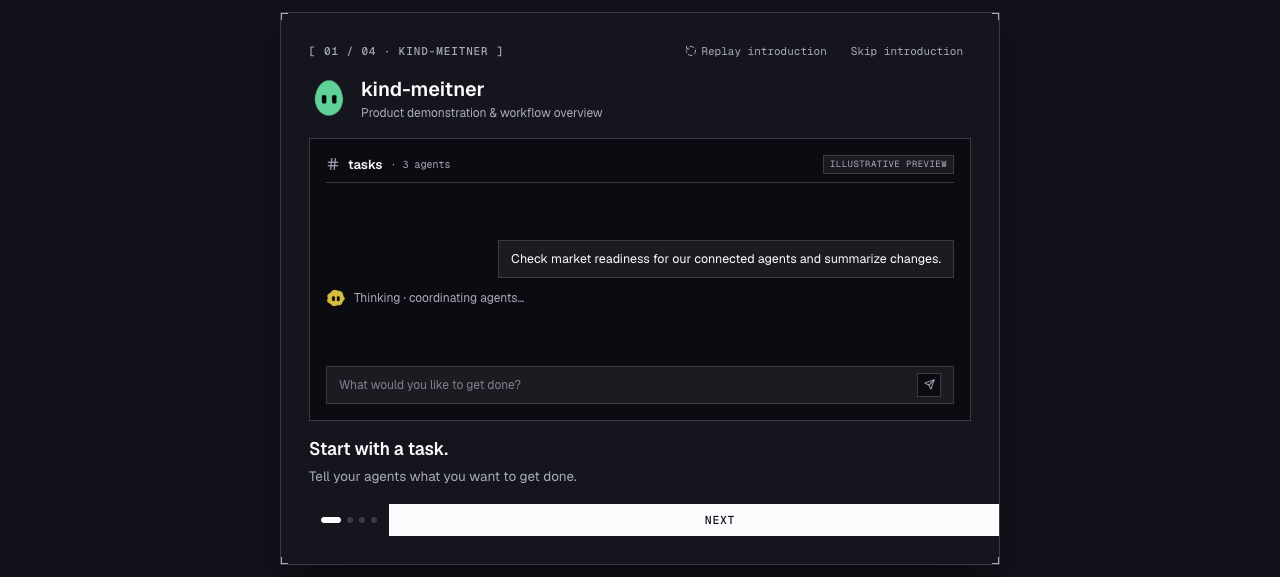
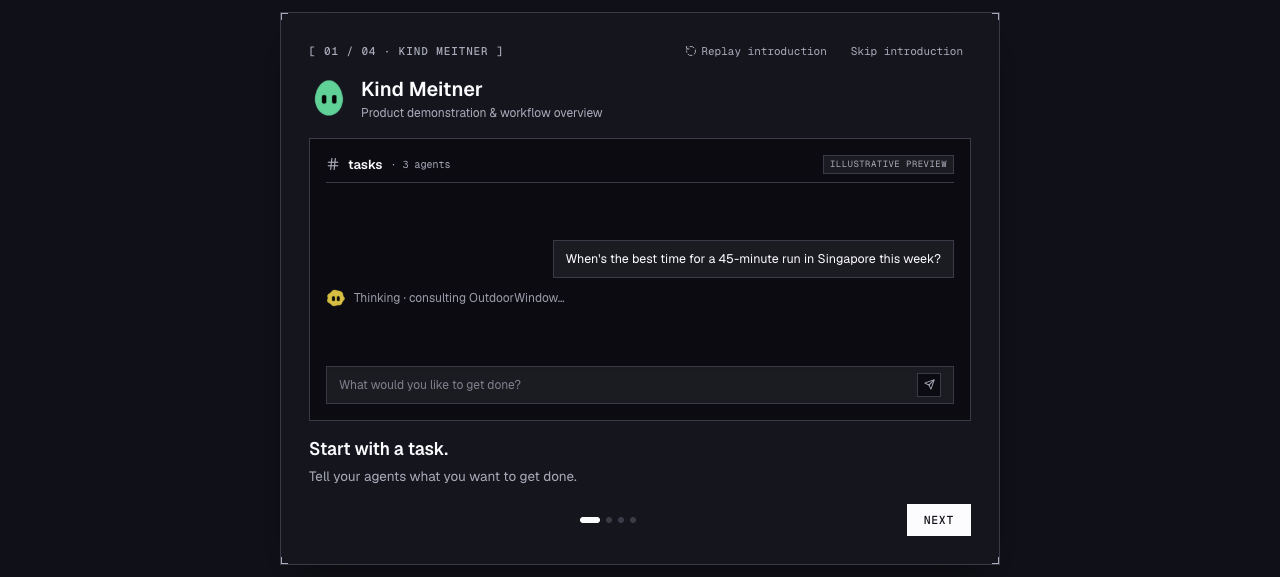
fix(onboarding): polish reel layout, brand title, and sidebar navigation (#152)
- Fix PrimaryButton flex overflow in FeatureReel across all viewports
- Set product brand name to 'Kind Meitner'
- Update Scene 1 example to real connected capability (OutdoorWindow Singapore run query)
- Remove Demo and Launch check from primary sidebar nav; relocate under Connected services -> Diagnostics
- Add multi-resolution evidence screenshots (1280, 1024, 768, 360, 200% zoom)

diff --git a/src/components/Sidebar.tsx b/src/components/Sidebar.tsx
@@ -26,8 +26,6 @@ import {
   Search,
   Scale,
   Settings as SettingsIcon,
-  Sparkles,
-  Radar,
   HelpCircle,
   MessageSquare,
   Trash2,
@@ -1527,8 +1525,6 @@ export function Sidebar({ open, onClose }: { open: boolean; onClose: () => void 
 
   const isSettingsActive = Boolean(state.appSettingsOpen);
   const isHubActive = !isSettingsActive && state.pluginsOpen && state.pluginsSurface === "hub";
-  const isDemoActive = !isSettingsActive && !state.pluginsOpen && state.activeView === "demo";
-  const isLaunchActive = !isSettingsActive && !state.pluginsOpen && state.activeView === "launch";
   const isActivityActive = !isSettingsActive && !state.pluginsOpen && Boolean(state.activityOpen) && state.activeView === "chat";
   const isMoreActive = !isSettingsActive && !state.pluginsOpen && !state.activityOpen && (state.activeView === "routines" || state.activeView === "okx-evaluator");
   const isRoomsActive = !isSettingsActive && !state.pluginsOpen && !state.activityOpen && state.activeView === "chat";
@@ -1547,16 +1543,6 @@ export function Sidebar({ open, onClose }: { open: boolean; onClose: () => void 
     dispatch({ type: "togglePlugins", open: true, surface: "hub", hubTab: "agents" });
   };
 
-  const handleDemoClick = () => {
-    if (state.pluginsOpen) dispatch({ type: "togglePlugins", open: false });
-    if (state.activityOpen) dispatch({ type: "toggleActivity", open: false });
-    dispatch({ type: "showDemo" });
-  };
-  const handleLaunchClick = () => {
-    if (state.pluginsOpen) dispatch({ type: "togglePlugins", open: false });
-    if (state.activityOpen) dispatch({ type: "toggleActivity", open: false });
-    dispatch({ type: "showLaunch" });
-  };
   const handleActivityClick = () => {
     if (state.activeView !== "chat") {
       dispatch({ type: "showChat" });
@@ -2108,49 +2094,6 @@ export function Sidebar({ open, onClose }: { open: boolean; onClose: () => void 
           )}
         </button>
 
-        <button
-          type="button"
-          onClick={handleDemoClick}
-          aria-label={t("demo.nav.demo")}
-          title={t("demo.nav.demo")}
-          aria-current={isDemoActive ? "page" : undefined}
-          className={cn(
-            "relative flex items-center transition-colors outline-none focus-visible:ring-1 focus-visible:ring-focus",
-            density === "icons"
-              ? "size-9 w-full justify-center px-2"
-              : "h-8.5 w-full gap-2.5 px-3 text-left font-mono text-[13px]",
-            isDemoActive
-              ? "bg-raised text-ink shadow-[inset_2px_0_0_var(--color-ink)]"
-              : "text-ink hover:bg-raised-hover",
-          )}
-        >
-          <Sparkles size={16} className={cn("shrink-0", isDemoActive ? "text-ink" : "text-ink-secondary")} />
-          {density !== "icons" && (
-            <span className="flex-1 truncate">{t("demo.nav.demo")}</span>
-          )}
-        </button>
-
-        <button
-          type="button"
-          onClick={handleLaunchClick}
-          aria-label={t("launch.nav")}
-          title={t("launch.nav")}
-          aria-current={isLaunchActive ? "page" : undefined}
-          className={cn(
-            "relative flex items-center transition-colors outline-none focus-visible:ring-1 focus-visible:ring-focus",
-            density === "icons"
-              ? "size-9 w-full justify-center px-2"
-              : "h-8.5 w-full gap-2.5 px-3 text-left font-mono text-[13px]",
-            isLaunchActive
-              ? "bg-raised text-ink shadow-[inset_2px_0_0_var(--color-ink)]"
-              : "text-ink hover:bg-raised-hover",
-          )}
-        >
-          <Radar size={16} className={cn("shrink-0", isLaunchActive ? "text-ink" : "text-ink-secondary")} />
-          {density !== "icons" && (
-            <span className="flex-1 truncate">{t("launch.nav")}</span>
-          )}
-        </button>
 
         <button
           type="button"

diff --git a/src/components/onboarding/reel/scenes/SceneResult.tsx b/src/components/onboarding/reel/scenes/SceneResult.tsx
@@ -49,22 +49,22 @@ export function SceneResult({ playing, onCue, onEnded, label }: SceneProps) {
         <div className="border border-hairline bg-card p-2.5 text-[12px] shadow-sm flex flex-col justify-between">
           <div>
             <div className="flex items-center justify-between gap-1 mb-1.5">
-              <span className="font-semibold text-ink text-[12px] truncate">Service Check Deliverable</span>
+              <span className="font-semibold text-ink text-[12px] truncate">Best Run Window Deliverable</span>
               <span className="bg-success/10 text-success border border-success/30 px-1 py-0.5 font-mono text-[9px] uppercase">
-                PASS
+                READY
               </span>
             </div>
             <p className="text-[11px] leading-relaxed text-ink-secondary mb-2">
-              Both connected services are verified and operational.
+              Optimal 45-min run window identified: Thursday 6:30 AM – 7:15 AM.
             </p>
             <div className="flex flex-col gap-1 font-mono text-[10px]">
               <div className="flex justify-between border-t border-hairline/60 pt-0.5">
                 <span className="text-ink-secondary">OutdoorWindow #6706</span>
-                <span className="text-success">Ready (42ms)</span>
+                <span className="text-success">26°C · AQI 32 · Rain 5%</span>
               </div>
               <div className="flex justify-between border-t border-hairline/60 pt-0.5">
                 <span className="text-ink-secondary">Plate #6708</span>
-                <span className="text-success">Ready</span>
+                <span className="text-success">Calendar slot confirmed</span>
               </div>
             </div>
           </div>
@@ -83,15 +83,15 @@ export function SceneResult({ playing, onCue, onEnded, label }: SceneProps) {
             <div className="flex flex-col gap-1 font-mono text-[9.5px] text-ink-secondary">
               <div className="flex items-center gap-1">
                 <span className="text-accent">12:00:01</span>
-                <span className="truncate">Dispatched check request</span>
+                <span className="truncate">Dispatched query to OutdoorWindow</span>
               </div>
               <div className="flex items-center gap-1">
                 <span className="text-accent">12:00:02</span>
-                <span className="truncate">OutdoorWindow probe returned 200</span>
+                <span className="truncate">OutdoorWindow retrieved Singapore forecast</span>
               </div>
               <div className="flex items-center gap-1">
                 <span className="text-accent">12:00:03</span>
-                <span className="truncate">Plate validated listing metadata</span>
+                <span className="truncate">Plate formatted schedule card</span>
               </div>
             </div>
           </div>

diff --git a/src/components/SettingsModal.tsx b/src/components/SettingsModal.tsx
@@ -3,7 +3,7 @@
 // is the stuff shared by every bot: who you are, your keys, and the
 // machine your bots can borrow.
 import { useEffect, useRef, useState } from "react";
-import { KeyRound, Palette, Search, Terminal, User, X } from "lucide-react";
+import { Activity, KeyRound, Palette, Search, ShieldCheck, Terminal, User, X } from "lucide-react";
 import { api, useStore, type AppSettingsSection, type ConfigStatus } from "@/state/store";
 import { analyticsEnabled, setAnalyticsEnabled } from "@/lib/analytics";
 import { showToolCallsEnabled } from "@/lib/feature-flags";
@@ -578,6 +578,41 @@ export function SettingsModal() {
                     <p className="-mt-2 text-[12px] leading-relaxed text-ink-secondary">{t("keys.providers.subtitle")}</p>
                     <ApiKeyRow section="anthropic" testProvider="anthropic" />
                     <ApiKeyRow section="xai" testProvider="xai" />
+                  </div>
+                </Card>
+
+                <Card
+                  title={t("diagnostics.title")}
+                  subtitle={t("diagnostics.subtitle")}
+                >
+                  <div className="flex flex-col gap-3">
+                    <p className="text-[12.5px] leading-relaxed text-ink-secondary">
+                      Run technical connectivity, Free MCP readiness scans, and trust checks across connected agents.
+                    </p>
+                    <div className="flex flex-wrap gap-2 pt-1">
+                      <button
+                        type="button"
+                        onClick={() => {
+                          dispatch({ type: "toggleAppSettings", open: false });
+                          dispatch({ type: "showDiagnostics" });
+                        }}
+                        className="inline-flex items-center gap-2 border border-hairline bg-surface px-3 py-1.5 font-mono text-[12px] font-medium text-ink hover:bg-raised-hover transition-colors"
+                      >
+                        <Activity size={14} className="text-accent" />
+                        <span>Run Diagnostics</span>
+                      </button>
+                      <button
+                        type="button"
+                        onClick={() => {
+                          dispatch({ type: "toggleAppSettings", open: false });
+                          dispatch({ type: "showLaunch" });
+                        }}
+                        className="inline-flex items-center gap-2 border border-hairline bg-surface px-3 py-1.5 font-mono text-[12px] font-medium text-ink hover:bg-raised-hover transition-colors"
+                      >
+                        <ShieldCheck size={14} className="text-ink-secondary" />
+                        <span>Launch Check Team</span>
+                      </button>
+                    </div>
                   </div>
                 </Card>
               </>

diff --git a/src/components/onboarding/reel/scenes/SceneRepeat.tsx b/src/components/onboarding/reel/scenes/SceneRepeat.tsx
@@ -49,8 +49,8 @@ export function SceneRepeat({ playing, onCue, onEnded, label }: SceneProps) {
         <div className="flex items-center justify-between border border-hairline bg-card px-3 py-2 text-[12px] shadow-sm">
           <div className="flex items-center gap-2">
             <Clock size={14} className="text-accent" />
-            <span className="font-semibold text-ink">Repeat Task</span>
-            <span className="font-mono text-[10px] text-ink-secondary">Every 1 hour</span>
+            <span className="font-semibold text-ink">Weekly Run Planner</span>
+            <span className="font-mono text-[10px] text-ink-secondary">Every Sunday 6:00 PM</span>
           </div>
           <span className="bg-accent/10 text-accent border border-accent/20 px-1.5 py-0.5 font-mono text-[9.5px] uppercase">
             Active
@@ -67,19 +67,19 @@ export function SceneRepeat({ playing, onCue, onEnded, label }: SceneProps) {
           </div>
           <div className="grid grid-cols-2 gap-2 text-[11px] mb-1.5">
             <div className="border border-hairline bg-panel p-1.5 font-mono">
-              <div className="text-[10px] text-ink-secondary">Previous (1h ago)</div>
-              <div className="text-ink font-semibold">2 services online</div>
-              <div className="text-[9.5px] text-ink-secondary">Latency: 46ms</div>
+              <div className="text-[10px] text-ink-secondary">Last Week</div>
+              <div className="text-ink font-semibold">3 run windows found</div>
+              <div className="text-[9.5px] text-ink-secondary">Avg Temp: 28°C</div>
             </div>
             <div className="border border-hairline bg-panel p-1.5 font-mono">
-              <div className="text-[10px] text-ink-secondary">Current (Automated)</div>
-              <div className="text-ink font-semibold">2 services online</div>
-              <div className="text-[9.5px] text-success">Latency: 42ms (-4ms)</div>
+              <div className="text-[10px] text-ink-secondary">This Week (Automated)</div>
+              <div className="text-ink font-semibold">4 run windows (+1 slot)</div>
+              <div className="text-[9.5px] text-success">Avg Temp: 26°C (-2°C cooler)</div>
             </div>
           </div>
           <div className="flex items-center justify-between text-[10px] font-mono text-success pt-0.5">
             <span className="flex items-center gap-1">
-              <CheckCircle2 size={11} /> Δ No regression detected
+              <CheckCircle2 size={11} /> Δ Thursday morning window recommended
             </span>
             <span className="text-ink-secondary">Scheduler: workspace timer (not an agent)</span>
           </div>

diff --git a/src/components/onboarding/reel/scenes/SceneWork.tsx b/src/components/onboarding/reel/scenes/SceneWork.tsx
@@ -60,7 +60,7 @@ export function SceneWork({ playing, onCue, onEnded, label }: SceneProps) {
               <span className="font-semibold text-ink truncate">Coordinator</span>
               <span className="font-mono text-[10px] text-accent">Dispatched</span>
             </div>
-            <div className="text-[11px] text-ink-secondary truncate">Delegated endpoint scan to OutdoorWindow</div>
+            <div className="text-[11px] text-ink-secondary truncate">Delegated weather window scan to OutdoorWindow</div>
           </div>
           <CheckCircle2 size={13} className="text-success shrink-0" />
         </div>
@@ -75,7 +75,7 @@ export function SceneWork({ playing, onCue, onEnded, label }: SceneProps) {
                 Handoff <ArrowRight size={10} />
               </span>
             </div>
-            <div className="text-[11px] text-ink-secondary truncate">Endpoint verified 200 OK (42ms) · Passed payload to Plate</div>
+            <div className="text-[11px] text-ink-secondary truncate">Identified Thursday 6:30 AM (26°C, AQI 32) · Passed to Plate</div>
           </div>
           {step >= 2 ? <CheckCircle2 size={13} className="text-success shrink-0" /> : <Clock size={13} className="text-ink-secondary shrink-0" />}
         </div>
@@ -88,7 +88,7 @@ export function SceneWork({ playing, onCue, onEnded, label }: SceneProps) {
               <span className="font-semibold text-ink truncate">Plate #6708</span>
               <span className="font-mono text-[10px] text-success">Verified</span>
             </div>
-            <div className="text-[11px] text-ink-secondary truncate">Validated schema & service capabilities · 0 issues</div>
+            <div className="text-[11px] text-ink-secondary truncate">Formatted calendar schedule card · 0 conflicts</div>
           </div>
           {step >= 3 ? <CheckCircle2 size={13} className="text-success shrink-0" /> : <Clock size={13} className="text-ink-secondary shrink-0" />}
         </div>

diff --git a/src/components/onboarding/reel/scenes/SceneAsk.tsx b/src/components/onboarding/reel/scenes/SceneAsk.tsx
@@ -58,7 +58,7 @@ export function SceneAsk({ playing, onCue, onEnded, label }: SceneProps) {
         {/* User Turn */}
         <div className="flex justify-end">
           <div className="max-w-[85%] border border-hairline bg-card px-3 py-2 text-[12px] sm:text-[12.5px] leading-relaxed text-ink shadow-sm">
-            Check market readiness for our connected agents and summarize changes.
+            When's the best time for a 45-minute run in Singapore this week?
           </div>
         </div>
 
@@ -66,7 +66,7 @@ export function SceneAsk({ playing, onCue, onEnded, label }: SceneProps) {
         {phase === "thinking" && (
           <div className="flex items-center gap-2 text-ink-secondary text-[12px]">
             <AgentMark bot={{ id: "coordinator", name: "Coordinator" }} size={20} />
-            <span className="animate-pulse">Thinking · coordinating agents…</span>
+            <span className="animate-pulse">Thinking · consulting OutdoorWindow…</span>
           </div>
         )}
 
@@ -75,7 +75,7 @@ export function SceneAsk({ playing, onCue, onEnded, label }: SceneProps) {
             <AgentMark bot={{ id: "coordinator", name: "Coordinator" }} size={24} className="mt-0.5 shrink-0" />
             <div className="border border-hairline bg-card px-3 py-2 text-[12px] sm:text-[12.5px] leading-relaxed text-ink shadow-sm">
               <div className="font-medium text-[11px] sm:text-[11.5px] text-accent mb-0.5">Coordinator</div>
-              Starting inspection across OutdoorWindow (#6706) and Plate (#6708). I will verify endpoints and deliver the report.
+              Analyzing weather windows via OutdoorWindow (#6706). Thursday morning at 6:30 AM has low precipitation (5%), 26°C temperature, and optimal air quality.
             </div>
           </div>
         )}

diff --git a/src/components/onboarding/reel/FeatureReel.tsx b/src/components/onboarding/reel/FeatureReel.tsx
@@ -85,7 +85,7 @@ export function FeatureReel({
           ))}
         </div>
 
-        <PrimaryButton onClick={last ? onNext : advance}>
+        <PrimaryButton onClick={last ? onNext : advance} className="w-auto shrink-0 px-4">
           {last ? (actionLabel ?? t("onboarding.continue")) : t("onboarding.reel.next")}
         </PrimaryButton>
       </div>

diff --git a/src/lib/brand.ts b/src/lib/brand.ts
@@ -19,7 +19,7 @@ export interface BrandStatus {
   notice?: string;
 }
 
-export const DEFAULT_BRAND: Brand = { name: "kind-meitner" };
+export const DEFAULT_BRAND: Brand = { name: "Kind Meitner" };
 
 let current: BrandStatus = { brand: DEFAULT_BRAND, source: "default", file: "" };
 
